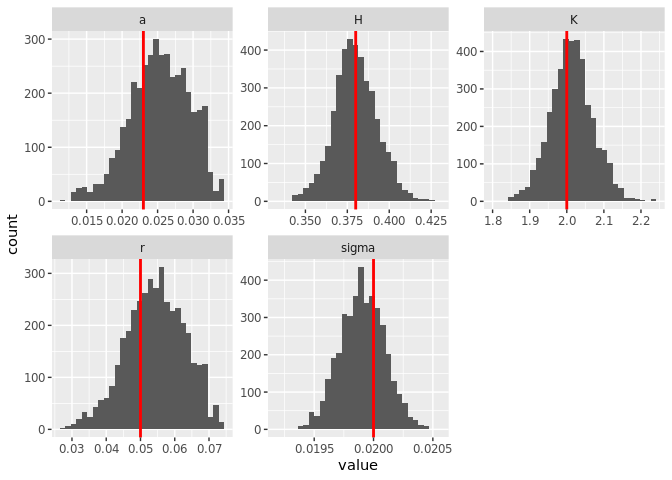
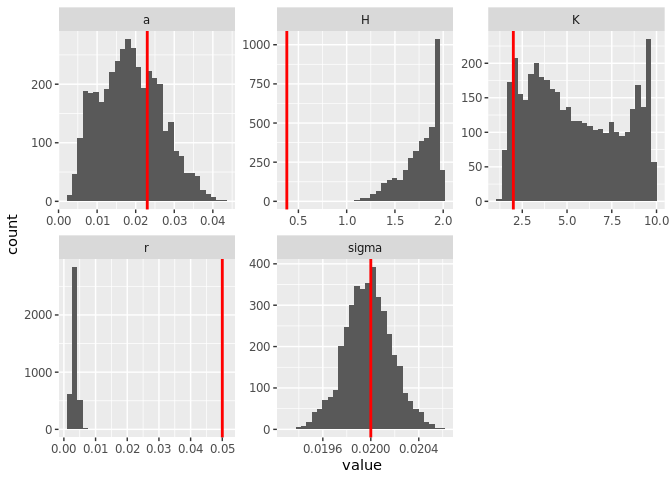
wide prior, bad inference

diff --git a/code/greta.md b/code/greta.md
@@ -59,7 +59,7 @@ Q <- 5
 K <- uniform(0, 10)
 H <- uniform(0,  2)
 a <- uniform(0, 1)
-r <- uniform(0, 1)
+r <- uniform(0, 10)
 #Q <- uniform(0, 10)
 sigma <- uniform(0, 1)
 
@@ -89,7 +89,7 @@ system.time({
         warmup ====                                    300/3000 | eta:  2m          
         warmup ====                                    350/3000 | eta:  2m          
         warmup =====                                   400/3000 | eta:  2m          
-        warmup ======                                  450/3000 | eta:  2m          
+        warmup ======                                  450/3000 | eta:  1m          
         warmup ======                                  500/3000 | eta:  1m          
         warmup =======                                 550/3000 | eta:  1m          
         warmup ========                                600/3000 | eta:  1m          
@@ -106,26 +106,26 @@ system.time({
         warmup ===============                        1150/3000 | eta:  1m          
         warmup ===============                        1200/3000 | eta:  1m          
         warmup ================                       1250/3000 | eta:  1m          
-        warmup ================                       1300/3000 | eta: 49s          
+        warmup ================                       1300/3000 | eta: 48s          
         warmup =================                      1350/3000 | eta: 47s          
-        warmup ==================                     1400/3000 | eta: 46s          
+        warmup ==================                     1400/3000 | eta: 45s          
         warmup ==================                     1450/3000 | eta: 44s          
-        warmup ===================                    1500/3000 | eta: 43s          
+        warmup ===================                    1500/3000 | eta: 42s          
         warmup ====================                   1550/3000 | eta: 41s          
         warmup ====================                   1600/3000 | eta: 39s          
         warmup =====================                  1650/3000 | eta: 38s          
         warmup ======================                 1700/3000 | eta: 36s          
         warmup ======================                 1750/3000 | eta: 35s          
-        warmup =======================                1800/3000 | eta: 34s          
+        warmup =======================                1800/3000 | eta: 33s          
         warmup =======================                1850/3000 | eta: 32s          
-        warmup ========================               1900/3000 | eta: 31s          
+        warmup ========================               1900/3000 | eta: 30s          
         warmup =========================              1950/3000 | eta: 29s          
-        warmup =========================              2000/3000 | eta: 28s          
+        warmup =========================              2000/3000 | eta: 27s          
         warmup ==========================             2050/3000 | eta: 26s          
         warmup ===========================            2100/3000 | eta: 25s          
         warmup ===========================            2150/3000 | eta: 23s          
         warmup ============================           2200/3000 | eta: 22s          
-        warmup ============================           2250/3000 | eta: 21s          
+        warmup ============================           2250/3000 | eta: 20s          
         warmup =============================          2300/3000 | eta: 19s          
         warmup ==============================         2350/3000 | eta: 18s          
         warmup ==============================         2400/3000 | eta: 16s          
@@ -133,7 +133,7 @@ system.time({
         warmup ================================       2500/3000 | eta: 14s          
         warmup ================================       2550/3000 | eta: 12s          
         warmup =================================      2600/3000 | eta: 11s          
-        warmup ==================================     2650/3000 | eta: 10s          
+        warmup ==================================     2650/3000 | eta:  9s          
         warmup ==================================     2700/3000 | eta:  8s          
         warmup ===================================    2750/3000 | eta:  7s          
         warmup ===================================    2800/3000 | eta:  5s          
@@ -144,12 +144,12 @@ system.time({
     ## 
       sampling                                           0/1000 | eta:  ?s          
       sampling ==                                       50/1000 | eta: 29s          
-      sampling ====                                    100/1000 | eta: 36s          
-      sampling ======                                  150/1000 | eta: 28s          
-      sampling ========                                200/1000 | eta: 26s          
+      sampling ====                                    100/1000 | eta: 35s          
+      sampling ======                                  150/1000 | eta: 27s          
+      sampling ========                                200/1000 | eta: 25s          
       sampling ==========                              250/1000 | eta: 24s          
       sampling ===========                             300/1000 | eta: 21s          
-      sampling =============                           350/1000 | eta: 20s          
+      sampling =============                           350/1000 | eta: 19s          
       sampling ===============                         400/1000 | eta: 18s          
       sampling =================                       450/1000 | eta: 16s          
       sampling ===================                     500/1000 | eta: 14s          
@@ -165,7 +165,7 @@ system.time({
       sampling ====================================== 1000/1000 | eta:  0s
 
     ##    user  system elapsed 
-    ## 228.793  22.114 110.417
+    ## 224.338  22.910 109.255
 
 ``` r
 summary(draws)
@@ -180,21 +180,21 @@ summary(draws)
     ## 1. Empirical mean and standard deviation for each variable,
     ##    plus standard error of the mean:
     ## 
-    ##          Mean       SD  Naive SE Time-series SE
-    ## K     2.01314 0.057767 9.134e-04      1.846e-03
-    ## a     0.02529 0.004213 6.661e-05      3.152e-04
-    ## H     0.37991 0.013028 2.060e-04      4.934e-04
-    ## sigma 0.01990 0.000188 2.973e-06      5.014e-06
-    ## r     0.05431 0.008646 1.367e-04      6.216e-04
+    ##           Mean        SD  Naive SE Time-series SE
+    ## K     5.410846 2.5430072 4.021e-02      3.673e-01
+    ## a     0.018627 0.0078987 1.249e-04      9.215e-04
+    ## H     1.764103 0.1926640 3.046e-03      2.092e-02
+    ## sigma 0.019977 0.0001962 3.102e-06      9.807e-06
+    ## r     0.003308 0.0008387 1.326e-05      6.622e-05
     ## 
     ## 2. Quantiles for each variable:
     ## 
-    ##          2.5%     25%     50%     75%   97.5%
-    ## K     1.90050 1.97546 2.01206 2.04836 2.12581
-    ## a     0.01624 0.02245 0.02538 0.02844 0.03248
-    ## H     0.35441 0.37135 0.37937 0.38837 0.40564
-    ## sigma 0.01954 0.01977 0.01990 0.02003 0.02027
-    ## r     0.03636 0.04849 0.05453 0.06075 0.06920
+    ##           2.5%     25%      50%     75%    97.5%
+    ## K     1.690631 3.21327 5.026350 7.70264 9.635007
+    ## a     0.005634 0.01263 0.018340 0.02432 0.035004
+    ## H     1.303297 1.65279 1.816050 1.92901 1.972919
+    ## sigma 0.019577 0.01985 0.019978 0.02010 0.020367
+    ## r     0.001920 0.00275 0.003206 0.00377 0.005285
 
 ``` r
 #bayesplot::mcmc_trace(draws)
